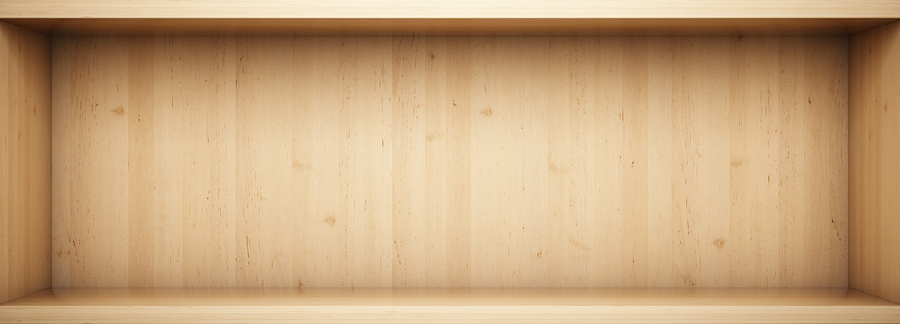
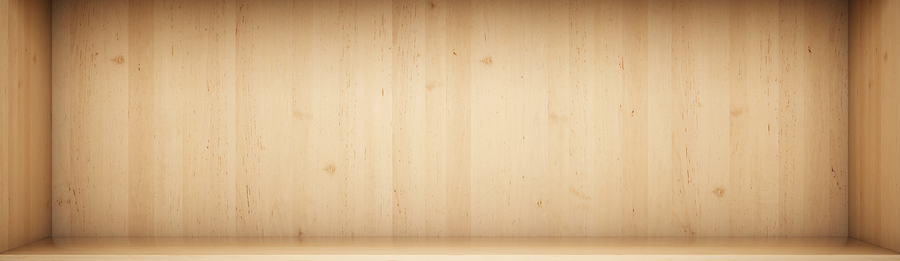
Working on AJAX shelf functionality. Updated API endpoints for add/removing to shelf.

diff --git a/Development/src/main/resources/public/css/shelf.css b/Development/src/main/resources/public/css/shelf.css
@@ -1,94 +1,28 @@
+.shelf-container {
+
+    box-sizing: border-box;
+    width: 100%;
+    padding-bottom: 29%;
+    border: 5px solid #ff0007;
+}
+
+.shelf-bg {
+    position: absolute;
+    top: 0;
+    left: 0;
+    right: 0;
+    bottom: 0;
+    background-image: url("/img/shelving.png");
+    background-repeat: repeat-y;
+    background-size: contain;
+}
+
 .shelf {
-    display: block;
     position: relative;
-    width: 60%;
-    height: 20px;
-    margin: 100px auto 0;
-    background-image: -moz-linear-gradient(90deg, #d1d8de 0%, #eff1f3 100%);
-    /*FF3.6+ */
-    background-image: -webkit-gradient(90deg, left top, right bottom, color-stop(0%, #d1d8de), color-stop(100%, #eff1f3));
-    /*Chrome,Safari4+ */
-    background-image: -webkit-linear-gradient(90deg, #d1d8de 0%, #eff1f3 100%);
-    /*Chrome10+,Safari5.1+ */
-    background-image: -o-linear-gradient(90deg, #d1d8de 0%, #eff1f3 100%);
-    /* Opera 11.10+ */
-    background-image: -ms-linear-gradient(90deg, #d1d8de 0%, #eff1f3 100%);
-    /*IE10+ */
-    filter: progid:DXImageTransform.Microsoft.gradient( startColorstr='#eff1f3', endColorstr='#d1d8de', GradientType='0' );
-    /* IE6-9 */
-    -webkit-box-shadow: 0 2px 2px #708698, 0 4px 0 #abb8c3, 0 20px 30px -8px #000000, transparent 0 0 0, transparent 0 0 0, transparent 0 0 0;
-    -moz-box-shadow: 0 2px 2px #708698, 0 4px 0 #abb8c3, 0 20px 30px -8px #000000, transparent 0 0 0, transparent 0 0 0, transparent 0 0 0;
-    box-shadow: 0 2px 2px #708698, 0 4px 0 #abb8c3, 0 20px 30px -8px #000000, transparent 0 0 0, transparent 0 0 0, transparent 0 0 0;
-}
-.bookend_left {
-    display: block;
-    position: absolute;
-    left: -25px;
-    top: -18px;
-    width: 36px;
-    height: 36px;
-    background-color: #ffffff;
-    -webkit-transform: rotate(35deg);
-    -moz-transform: rotate(35deg);
-    -ms-transform: rotate(35deg);
-    -o-transform: rotate(35deg);
-}
-.bookend_left:before {
-    position: absolute;
-    top: 31px;
-    left: 17px;
-    width: 20px;
-    height: 10px;
-    background-color: #ffffff;
-    content: "";
-    -webkit-transform: rotate(-35deg);
-    -moz-transform: rotate(-35deg);
-    -ms-transform: rotate(-35deg);
-    -o-transform: rotate(-35deg);
-}
-.bookend_right {
-    display: block;
-    position: absolute;
-    right: -25px;
-    top: -18px;
-    width: 36px;
-    height: 36px;
-    background-color: #ffffff;
-    -webkit-transform: rotate(-35deg);
-    -moz-transform: rotate(-35deg);
-    -ms-transform: rotate(-35deg);
-    -o-transform: rotate(-35deg);
-}
-.bookend_right:before {
-    position: absolute;
-    top: 31px;
-    right: 17px;
-    width: 20px;
-    height: 10px;
-    background-color: #ffffff;
-    content: "";
-    -webkit-transform: rotate(35deg);
-    -moz-transform: rotate(35deg);
-    -ms-transform: rotate(35deg);
-    -o-transform: rotate(35deg);
-}
-.shelf .reflection {
-    display: block;
-    position: absolute;
-    top: 20px;
-    left: 1px;
-    width: 99.8%;
-    height: 1px;
-    background-image: -moz-linear-gradient(0deg, #ffffff 0%, rgba(255, 255, 255, 0.5) 35%, #ffffff 65%, rgba(255, 255, 255, 0.7) 100%);
-    /*FF3.6+ */
-    background-image: -webkit-gradient(linear, left top, right top, color-stop(0%, #ffffff), color-stop(35%, rgba(255, 255, 255, 0.5)), color-stop(65%, #ffffff), color-stop(100%, rgba(255, 255, 255, 0.7)));
-    /*Chrome,Safari4+ */
-    background-image: -webkit-linear-gradient(0deg, #ffffff 0%, rgba(255, 255, 255, 0.5) 35%, #ffffff 65%, rgba(255, 255, 255, 0.7) 100%);
-    /* Chrome10+,Safari5.1+ */
-    background-image: -o-linear-gradient(0deg, #ffffff 0%, rgba(255, 255, 255, 0.5) 35%, #ffffff 65%, rgba(255, 255, 255, 0.7) 100%);
-    /* Opera 11.10+ */
-    background-image: -ms-linear-gradient(0deg, #ffffff 0%, rgba(255, 255, 255, 0.5) 35%, #ffffff 65%, rgba(255, 255, 255, 0.7) 100%);
-    /*IE10+ */
-    filter: progid:DXImageTransform.Microsoft.gradient( startColorstr='rgba(255, 255, 255, 0.7)', endColorstr='#ffffff', GradientType='0' );
-    /* IE6-9 */
+    box-sizing: border-box;
+    width: 100%;
+    padding-bottom: 29%;
+    background-image: url("/img/shelving.png");
+    background-repeat: repeat-y;
+    background-size: contain;
 }

diff --git a/Development/src/main/resources/templates/index.html b/Development/src/main/resources/templates/index.html
@@ -20,7 +20,7 @@
             </div>
 
             <!-- Landing Page for a not-logged-in user -->
-            <div class="uk-padding" sec:authorize="isAnonymous()">
+            <div class="main-div uk-padding" sec:authorize="isAnonymous()">
                 <h1>Index Page</h1>
 
                 <h2>Not Logged In</h2>
@@ -28,7 +28,8 @@
             </div>
 
             <!-- Landing page for a logged-in user -->
-            <div id="main-with-sidebar" class="uk-padding" sec:authorize="isAuthenticated()">
+            <div id="main-with-sidebar" sec:authorize="isAuthenticated()">
+                <!--
                 <h2>Hello, <span th:text="${userProfile.getDisplayName()}">null</span>!</h2>
                 <hr>
                 <h4>My Shelf</h4>
@@ -54,30 +55,10 @@
                             <a th:href="'/shelf/removeMovie/'+${userTitle.getTitleId()}">(Remove)</a>
                         </td>
                     </tr>
-                </table>
-
-                <div class="shelf">
-                    <div class="bookend_left"></div>
-                    <div class="bookend_right"></div>
-                    <div class="reflection"></div>
-                </div>
-                <div class="shelf">
-                    <div class="bookend_left"></div>
-                    <div class="bookend_right"></div>
-                    <div class="reflection"></div>
-                </div>
-                <div class="shelf">
-                    <div class="bookend_left"></div>
-                    <div class="bookend_right"></div>
-                    <div class="reflection"></div>
-                </div>
-                <div class="shelf">
-                    <div class="bookend_left"></div>
-                    <div class="bookend_right"></div>
-                    <div class="reflection"></div>
-                </div>
+                </table>-->
 
                 <!-- experimental add friend button -->
+                <!--
                 <form th:action="@{/api/friends}" th:object="${String}" method="post">
                     <fieldset class="uk-fieldset">
                         <div class="uk-margin">
@@ -97,7 +78,16 @@
                             <a th:href="'/api/friends/'+${friendship.getFriendshipId()}">(Remove)</a>
                         </td>
                     </tr>
-                </table>
+                </table>-->
+
+                <div class="shelf">
+                </div>
+                <div class="shelf">
+                </div>
+                <div class="shelf">
+                </div>
+                <div class="shelf">
+                </div>
             </div>
 
             <!-- Include the footer fragment -->

diff --git a/Development/src/main/resources/public/css/site.css b/Development/src/main/resources/public/css/site.css
@@ -46,14 +46,30 @@ html {
 
 @media (min-width: 960px) {
     #main-with-sidebar {
-        margin-left: 240px;
+        left: 240px !important;
     }
 }
+
+.main-div {
+    position: absolute;
+    left: 0;
+    right: 0;
+    top: 80px;
+    bottom: 0;
+    overflow: auto;
+}
+
 
 #main-with-sidebar {
     /*background-image: url("/img/shelving.png");
     background-repeat: repeat-y;
     background-size: contain;*/
+    position: absolute;
+    left: 0;
+    right: 0;
+    top: 80px;
+    bottom: 0;
+    overflow: auto;
 }
 
 #nav {
@@ -117,4 +133,38 @@ html {
     border-top: 1px solid rgba(255,255,255,.2);
     margin-top: 40px;
     padding-top: 10px;
+}
+
+::-webkit-scrollbar {
+    width: 16px;
+    height: 14px;
+}
+::-webkit-scrollbar-button {
+    width: 16px;
+    height: 14px;
+}
+::-webkit-scrollbar-thumb {
+    background: #b8b7b9;
+    border: 0px none #ffffff;
+    border-radius: 0px;
+}
+::-webkit-scrollbar-thumb:hover {
+    background: #a6a5a8;
+}
+::-webkit-scrollbar-thumb:active {
+    background: #9c9b9c;
+}
+::-webkit-scrollbar-track {
+    background: #dcdbdd;
+    border: 0px none #ffffff;
+    border-radius: 0px;
+}
+::-webkit-scrollbar-track:hover {
+    background: #e3e2e4;
+}
+::-webkit-scrollbar-track:active {
+    background: #d3d3d4;
+}
+::-webkit-scrollbar-corner {
+    background: transparent;
 }

diff --git a/Development/src/main/resources/templates/userRegister.html b/Development/src/main/resources/templates/userRegister.html
@@ -11,7 +11,7 @@
             <!-- Include the nav fragment -->
             <div th:include="fragments/nav :: nav"></div>
 
-            <div class="uk-padding">
+            <div class="main-div uk-padding">
 
                 <div id="landing-sidebar" class="uk-card-secondary uk-card-hover uk-card-body">
                     <!-- TODO: Display a registration form here -->

diff --git a/Development/src/main/resources/templates/accountUpgrade.html b/Development/src/main/resources/templates/accountUpgrade.html
@@ -10,7 +10,7 @@
     <!-- Include the nav fragment -->
     <div th:include="fragments/nav :: nav"></div>
 
-    <div class="uk-padding text-align-right">
+    <div class="main-div uk-padding text-align-right">
         <h1>Account Upgrade Page</h1>
         <p>The session you were linked to has expired.<br>You should upgrade your account to a full account.</p>
     </div>

diff --git a/Development/src/main/resources/templates/error.html b/Development/src/main/resources/templates/error.html
@@ -11,7 +11,7 @@
     <div th:include="fragments/nav :: nav"></div>
 
     <!-- Display a really simple error page that doesn't even tell you which error happened -->
-    <div class="uk-padding">
+    <div class="main-div uk-padding">
         <h1><span th:text="${status}"></span> <span th:text="${error}"></span></h1>
         <p>An error has occurred!</p>
 

diff --git a/Development/src/main/resources/templates/userLogin.html b/Development/src/main/resources/templates/userLogin.html
@@ -11,7 +11,7 @@
             <!-- Include the nav fragment -->
             <div th:include="fragments/nav :: nav"></div>
 
-            <div class="uk-padding">
+            <div class="main-div uk-padding">
 
                 <!-- Display a login form if the user is not already loggeed in -->
                 <div sec:authorize="isAnonymous()">

diff --git a/Development/src/main/resources/templates/sessionExpired.html b/Development/src/main/resources/templates/sessionExpired.html
@@ -10,7 +10,7 @@
     <!-- Include the nav fragment -->
     <div th:include="fragments/nav :: nav"></div>
 
-    <div class="uk-padding text-align-right">
+    <div class="main-div uk-padding text-align-right">
         <h1>Session Expired</h1>
         <p>This session has expired. Redirecting you to the homepage... TODO</p>
     </div>

diff --git a/Development/src/main/java/com/grup/movieshelf/Service/ShelfService.java b/Development/src/main/java/com/grup/movieshelf/Service/ShelfService.java
@@ -10,11 +10,15 @@ package com.grup.movieshelf.Service;
 // Module Imports
 /////////////////////////////////////////////////////////////
 
+import com.grup.movieshelf.JPA.Entity.Movies.Title;
 import com.grup.movieshelf.JPA.Entity.Users.UserTitle;
 import com.grup.movieshelf.JPA.Repository.TitleRepository;
 import com.grup.movieshelf.JPA.Repository.UserTitlesRepository;
 import org.springframework.beans.factory.annotation.Autowired;
 import org.springframework.stereotype.Service;
+
+import java.util.ArrayList;
+import java.util.List;
 
 /////////////////////////////////////////////////////////////
 // Shelf Service
@@ -42,15 +46,33 @@ public class ShelfService {
     //------------------------------------------------
 
     public void addTitleToShelf(String titleId) {
-        Integer userId = userService.getLoggedInUser().getUserId();
-        UserTitle userTitle = new UserTitle(userId, titleId);
-        userTitlesRepository.save(userTitle);
+        if (titleRepository.existsByTitleId(titleId)) {
+            Integer userId = userService.getLoggedInUser().getUserId();
+            UserTitle userTitle = new UserTitle(userId, titleId);
+            userTitlesRepository.save(userTitle);
+        }
     }
 
     public void removeTitleFromShelf(String titleId) {
         Integer userId = userService.getLoggedInUser().getUserId();
         UserTitle userTitle = userTitlesRepository.getByUserIdAndTitleId(userId, titleId);
         userTitlesRepository.delete(userTitle);
+    }
+
+    //------------------------------------------------
+    // Get Shelf Titles
+    //------------------------------------------------
+
+    public List<Title> getShelfForUser(){
+        Integer userId = userService.getLoggedInUser().getUserId();
+        List<UserTitle> titles = userTitlesRepository.getAllByUserId(userId);
+
+        ArrayList<Title> titlesToReturn = new ArrayList<>();
+        for (UserTitle titleMapping : titles){
+            titlesToReturn.add(titleRepository.getByTitleId(titleMapping.getTitleId()));
+        }
+
+        return titlesToReturn;
     }
 }
 

diff --git a/Development/src/main/java/com/grup/movieshelf/Controller/API/ShelfAPI.java b/Development/src/main/java/com/grup/movieshelf/Controller/API/ShelfAPI.java
@@ -11,11 +11,14 @@ package com.grup.movieshelf.Controller.API;
 /////////////////////////////////////////////////////////////
 
 import com.grup.movieshelf.Controller.API.Entity.ResponseStatus;
+import com.grup.movieshelf.JPA.Entity.Movies.Title;
 import com.grup.movieshelf.JPA.Repository.UserTitlesRepository;
 import com.grup.movieshelf.Service.*;
 import org.springframework.beans.factory.annotation.Autowired;
 import org.springframework.ui.Model;
 import org.springframework.web.bind.annotation.*;
+
+import java.util.List;
 
 /////////////////////////////////////////////////////////////
 // Shelf API
@@ -52,6 +55,11 @@ public class ShelfAPI {
     public ResponseStatus removeTitle (Model model, @PathVariable("titleId") String titleId) {
         shelfService.removeTitleFromShelf(titleId);
         return new ResponseStatus();
+    }
+
+    @GetMapping("/api/shelf")
+    public List<Title> getShelf(){
+        return shelfService.getShelfForUser();
     }
 }
 

diff --git a/Development/src/main/java/com/grup/movieshelf/JPA/Repository/TitleRepository.java b/Development/src/main/java/com/grup/movieshelf/JPA/Repository/TitleRepository.java
@@ -24,6 +24,8 @@ public interface TitleRepository extends JpaRepository<Title, String> {
     Title getByTitleId(String titleId);
 
     List<Title> getAllByTitleNameContaining(String search);
+
+    boolean existsByTitleId(String titleId);
 }
 
 /////////////////////////////////////////////////////////////
